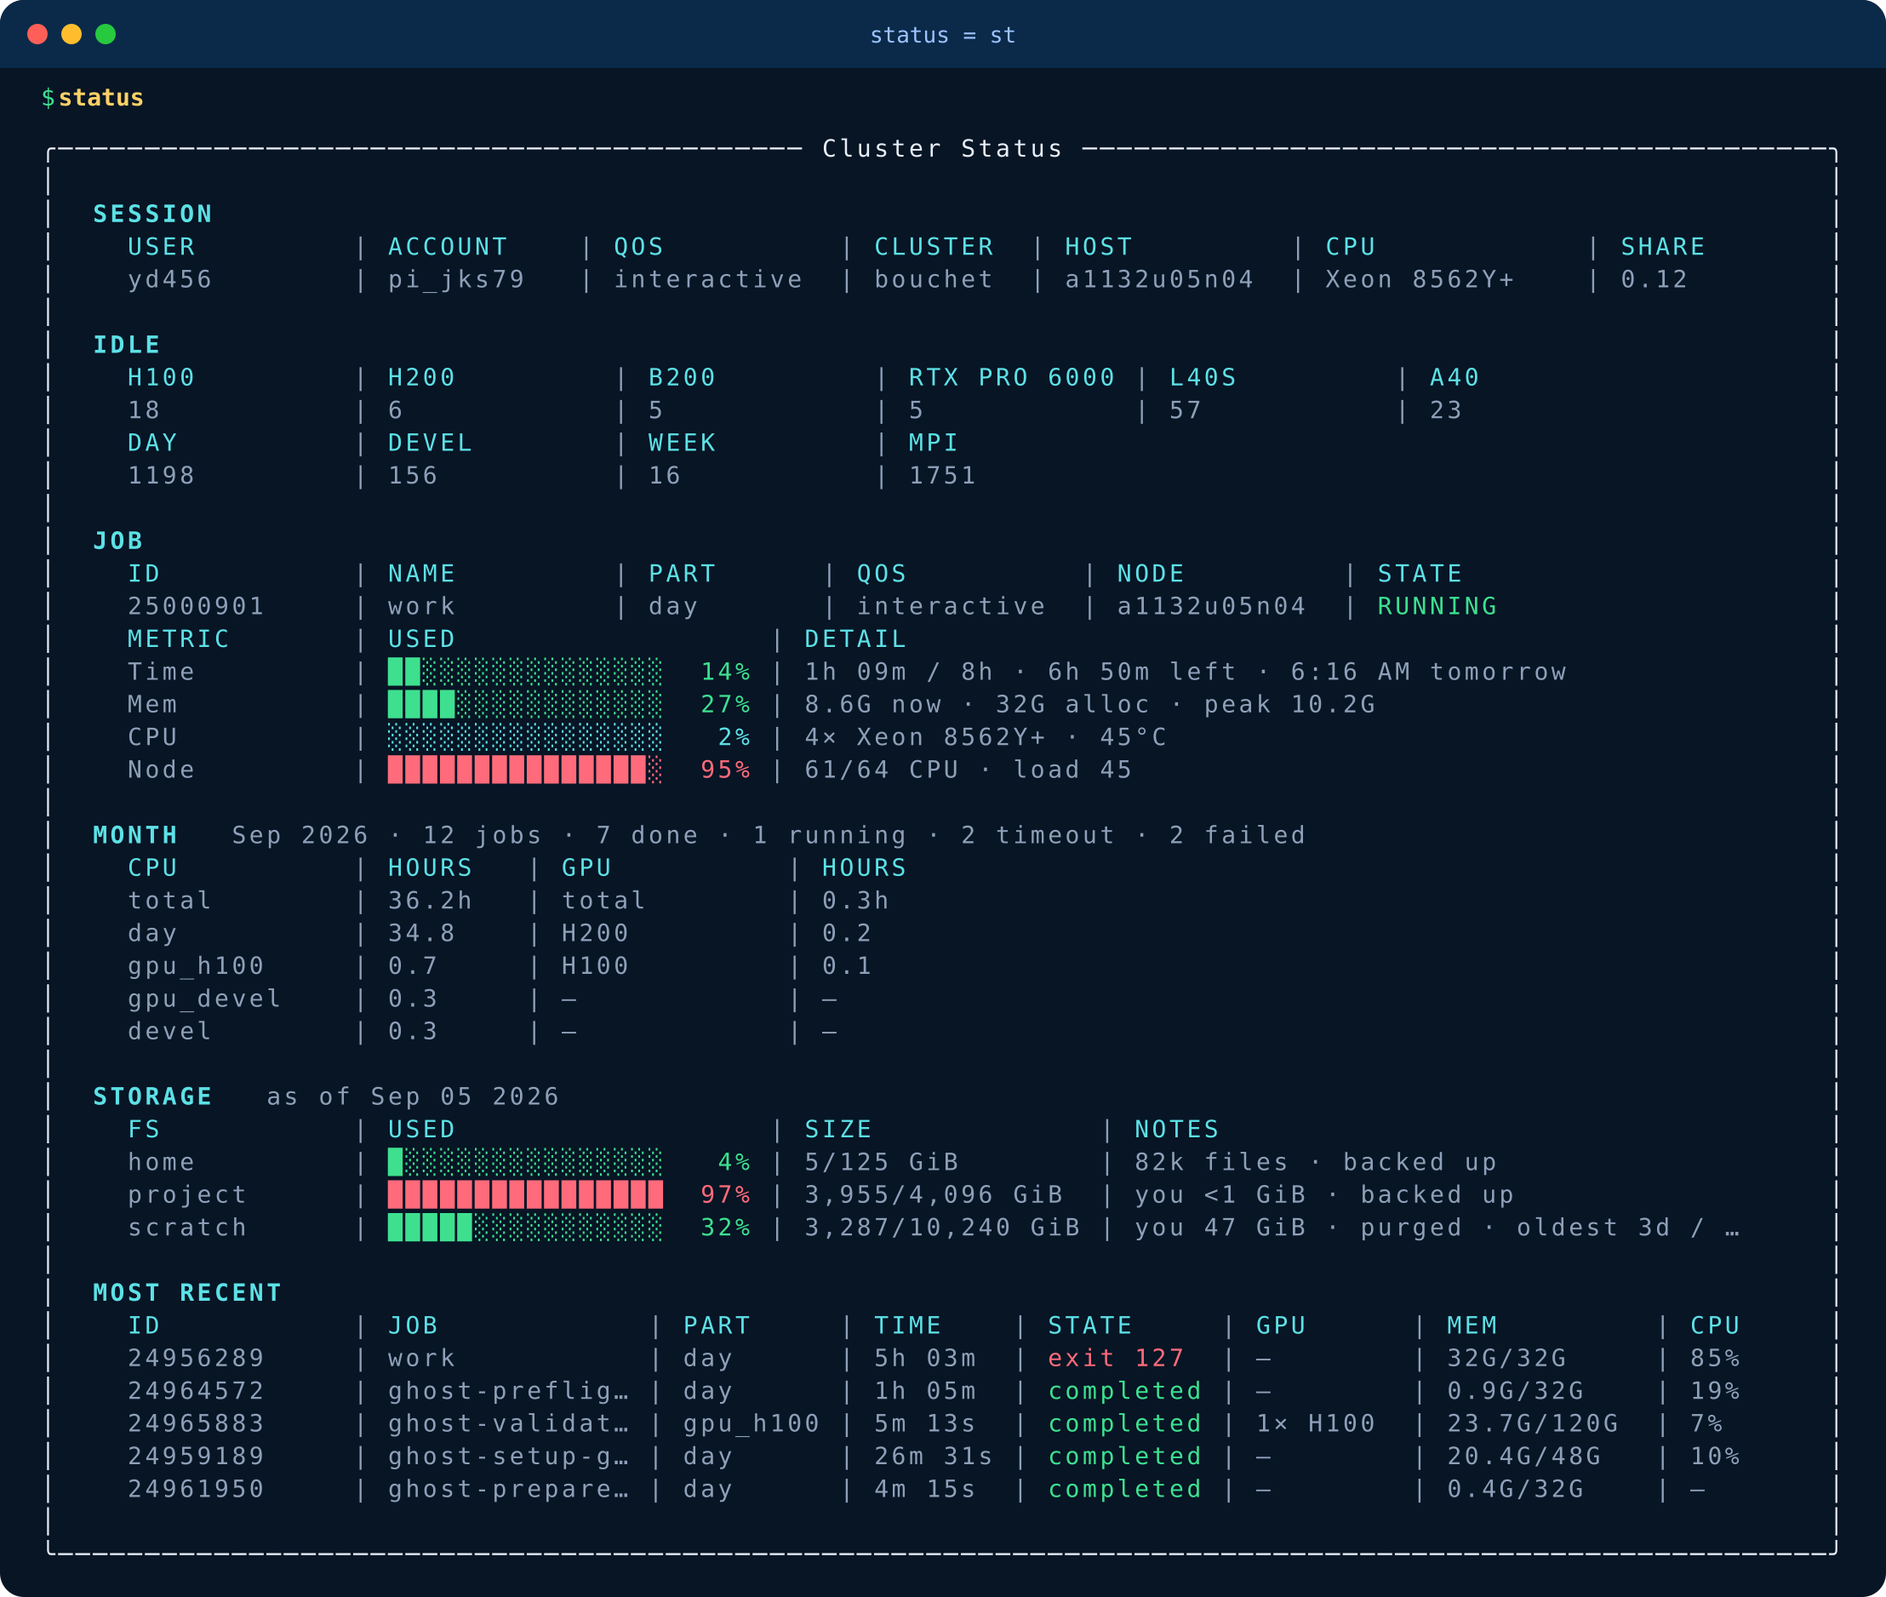
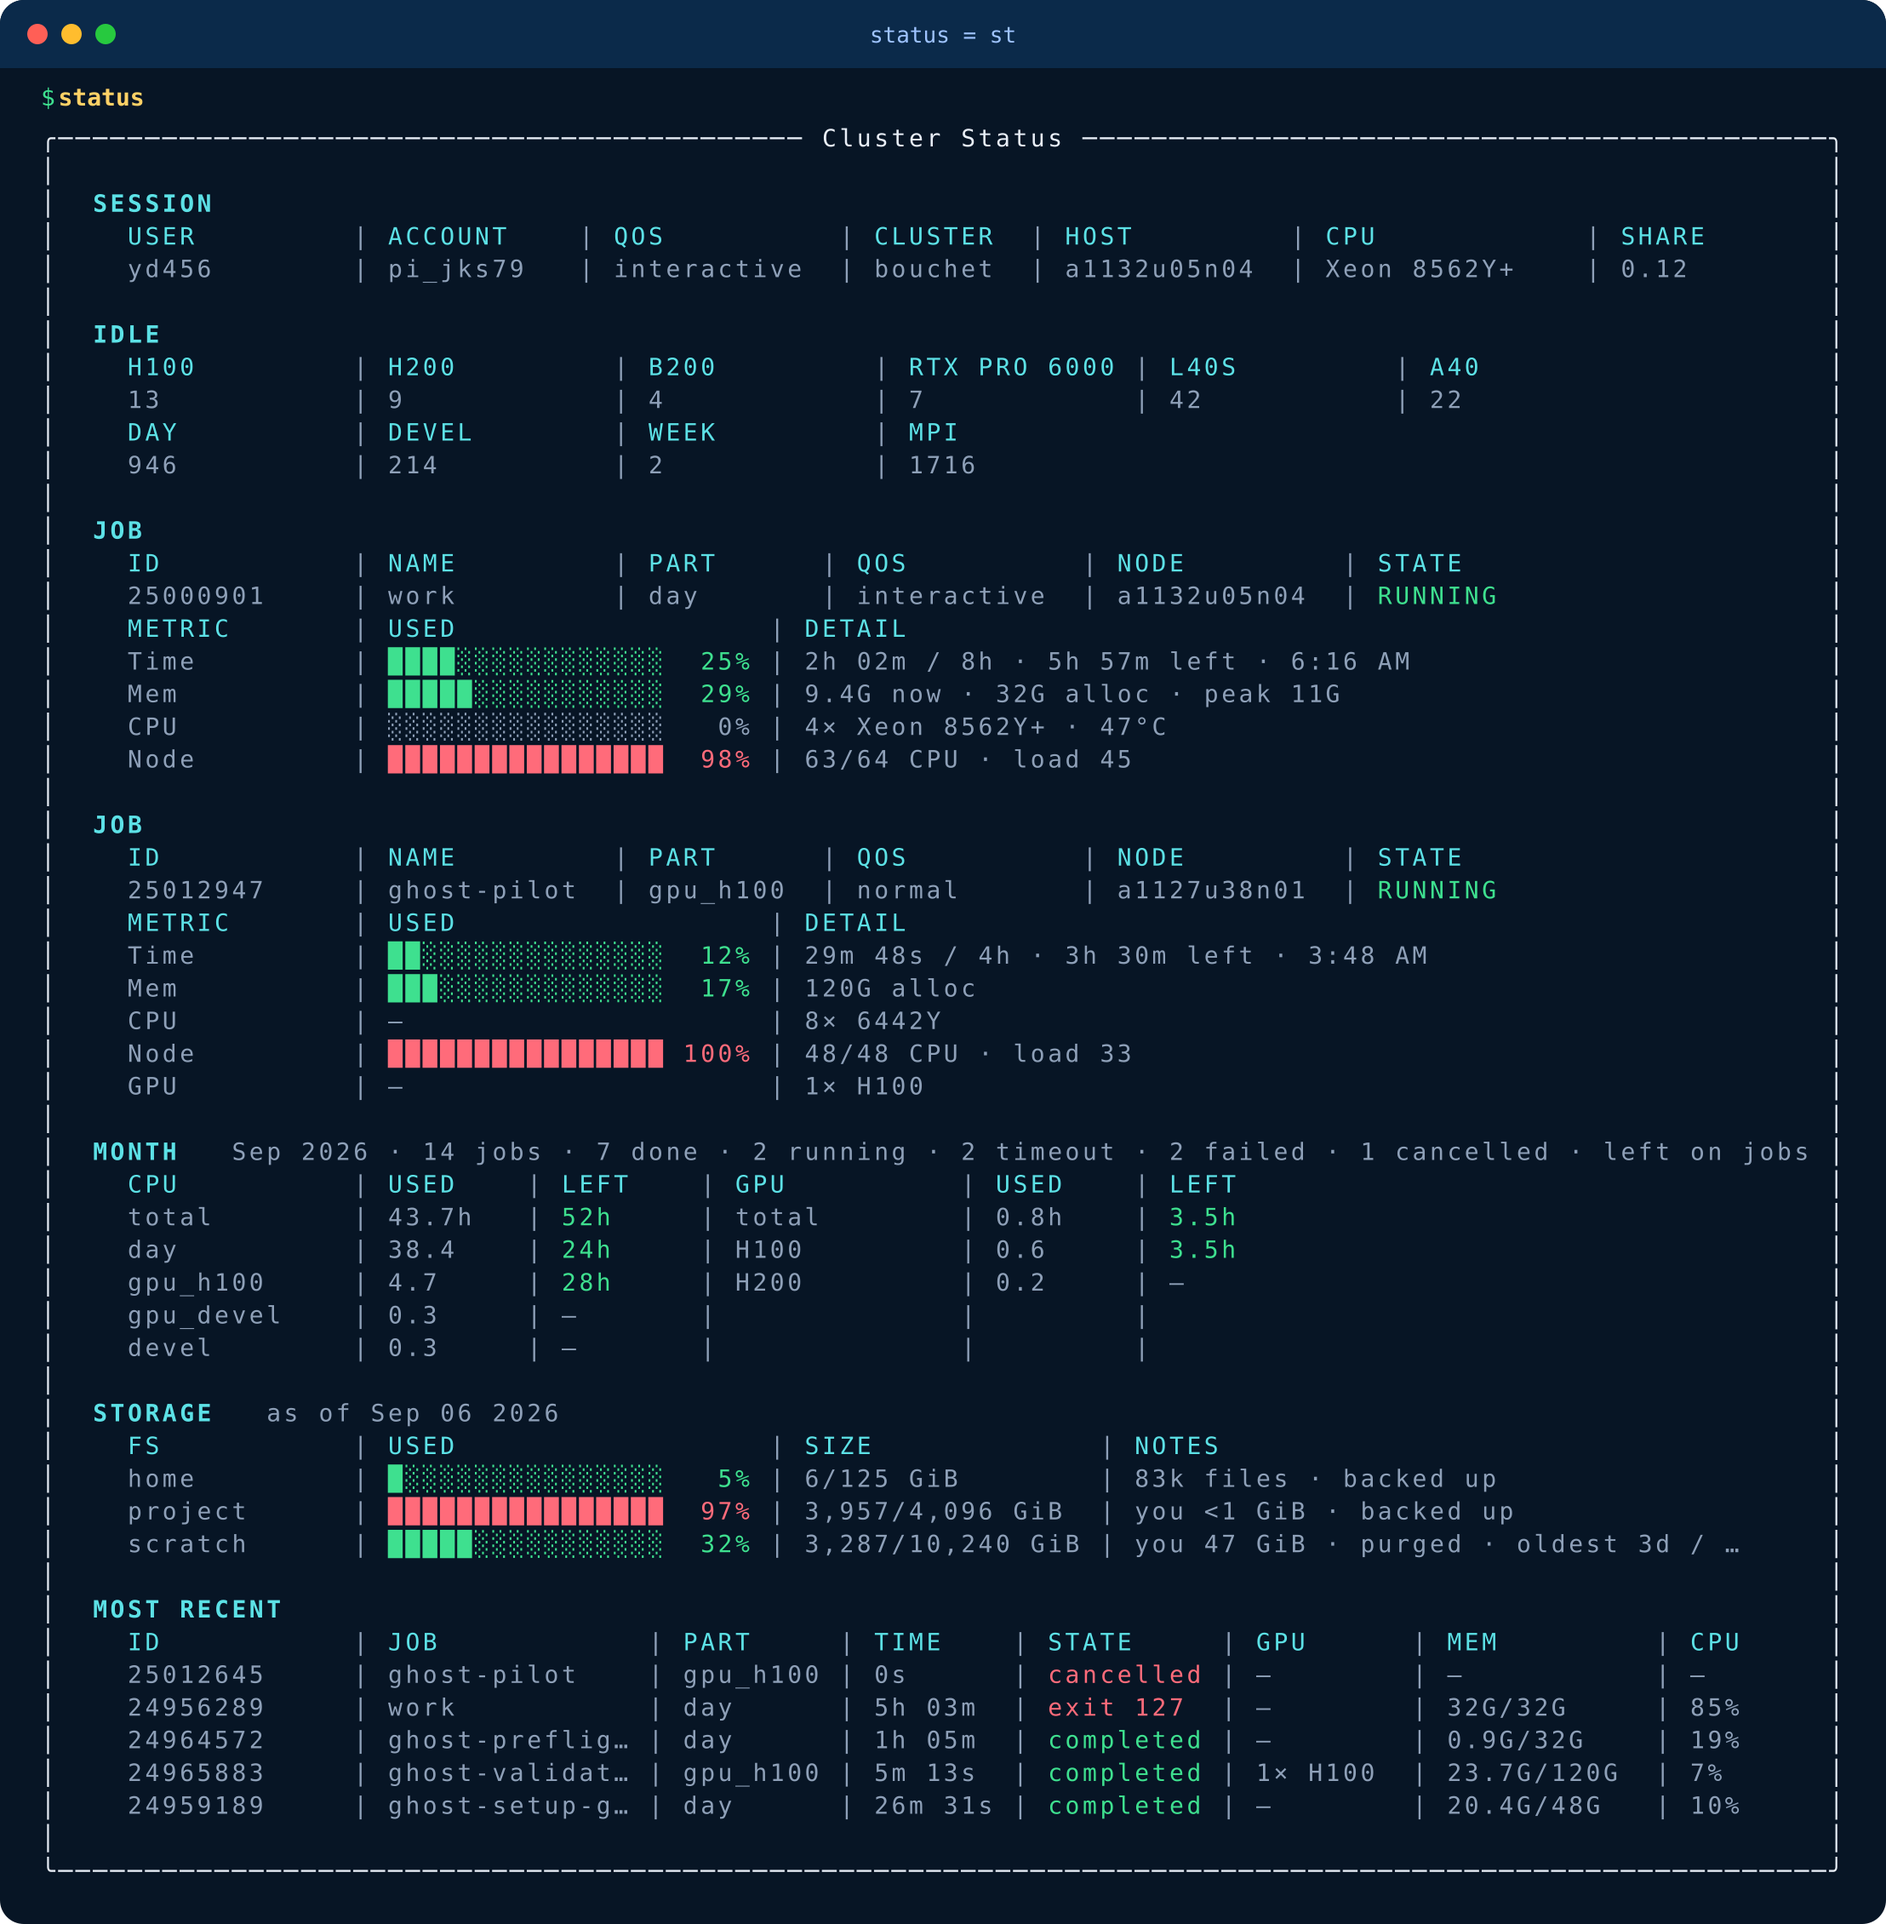
Show hours left in MONTH, not only hours used.

diff --git a/README.md b/README.md
@@ -29,7 +29,7 @@ Same command: `st`.
 
 <img src="docs/status.png" alt="status showing jobs, GPUs, hours, and disk" width="900">
 
-Idle GPUs. Your job. This month. Disk. Fresh every time.
+Idle GPUs. Your job. This month’s hours — used and left. Disk. Fresh every time.
 
 ## `cl` `cx` `clr` `cxr` `g` = just skip the typing
 
